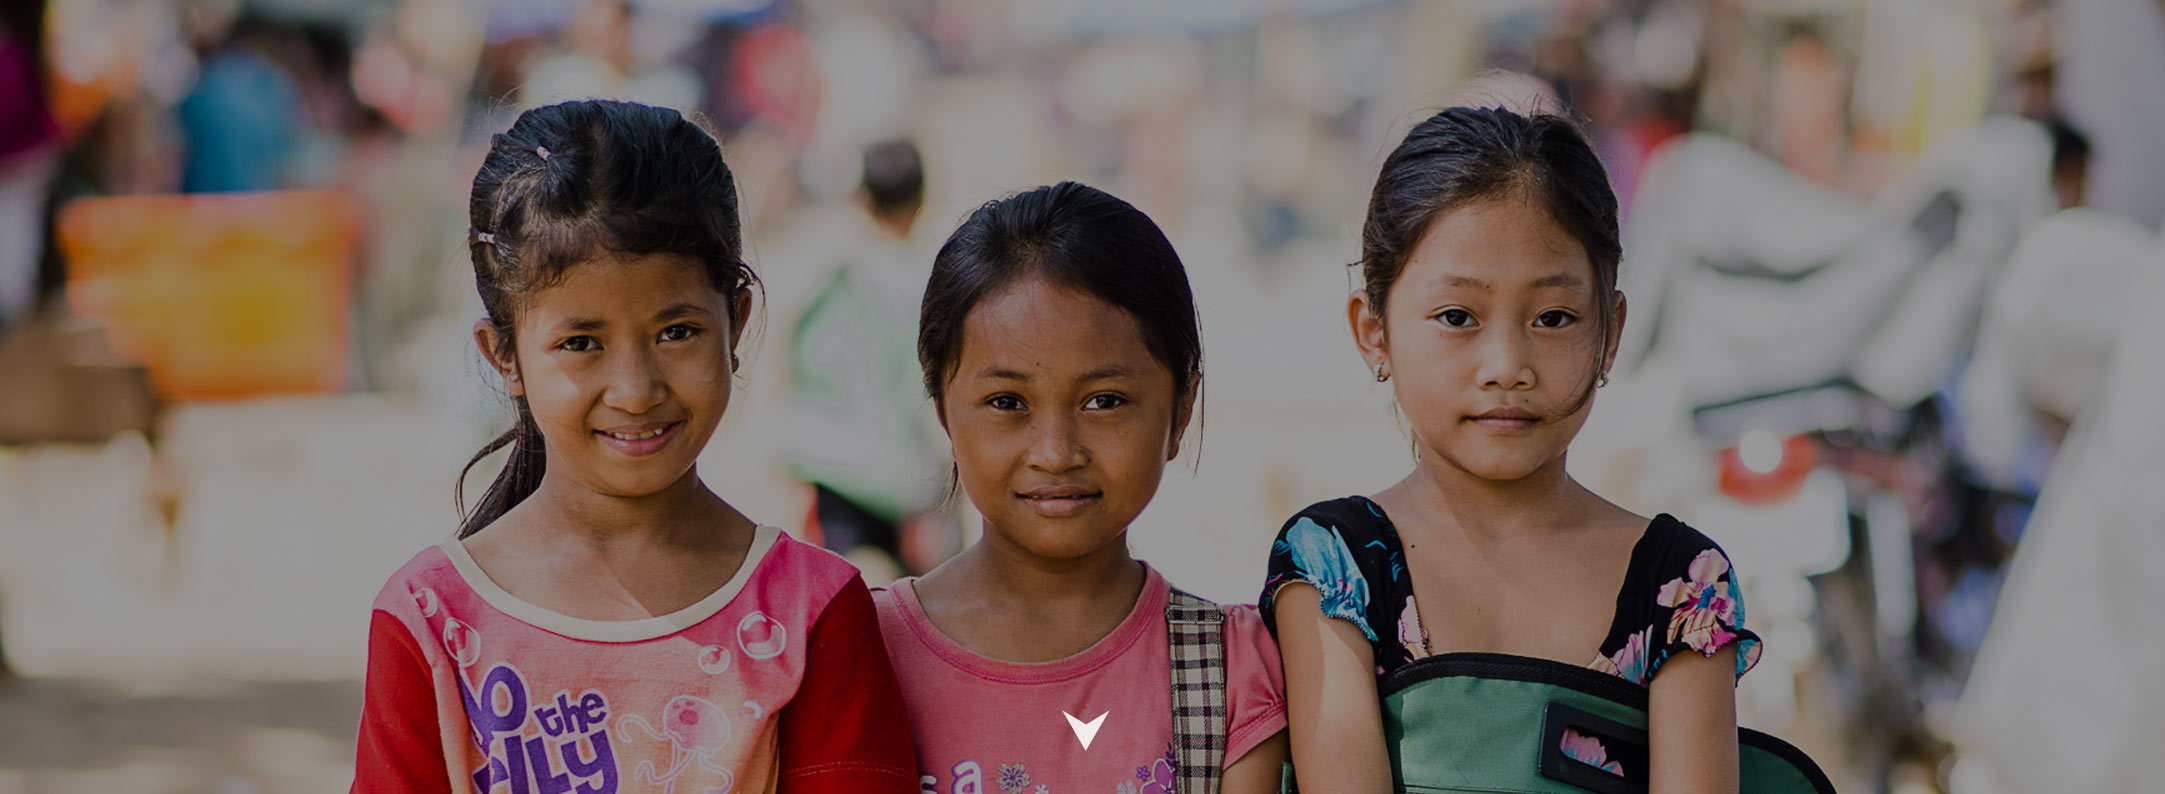
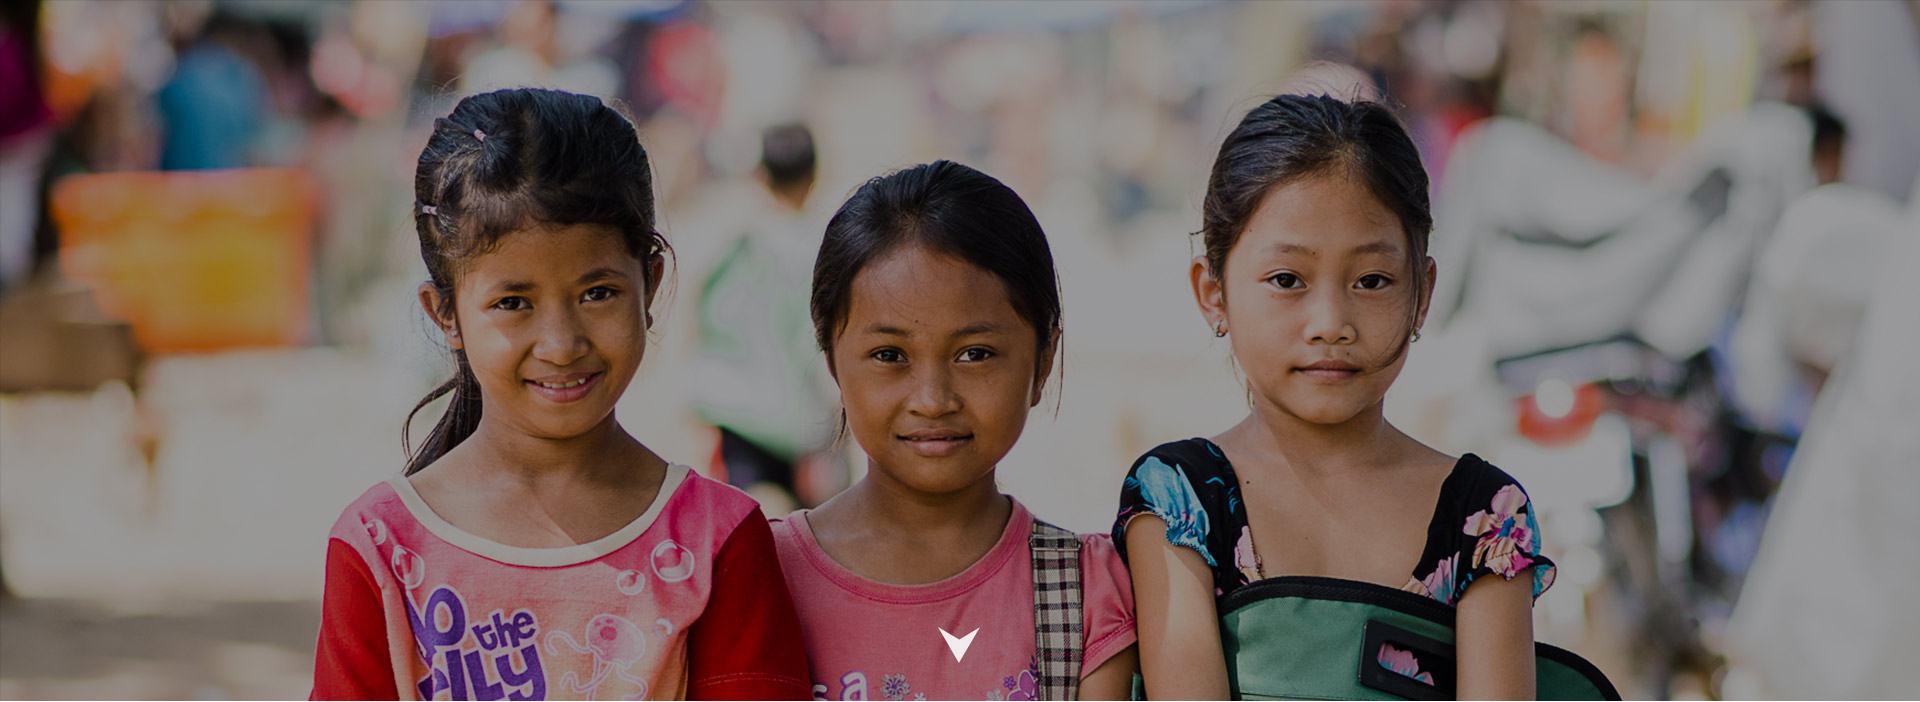
amend css for home page

diff --git a/ffacstorefront/web/webroot/_ui/desktop/ffac/css/style.css b/ffacstorefront/web/webroot/_ui/desktop/ffac/css/style.css
@@ -15,8 +15,10 @@ body, div, span, object, iframe, h1, h2, h3, h4, h5, h6, p, blockquote, pre, a, 
 }
 body p { line-height:40px; margin-bottom:25px }
 /* CSS header */
-header { margin-bottom:30px }
+header { margin-bottom:30px; background:url(../images/banner.jpg) no-repeat center top; height:703px }
 .header_top { position:absolute; top:0; left:0; z-index:9999; width:100% }
+
+
 
 .logo { padding-top:60px }
 .main { max-width:1170px; margin:auto; position:relative }
@@ -28,7 +30,7 @@ header { margin-bottom:30px }
 /* banner */
 .banner { width:100%; overflow:hidden }
 .banner img { width:100% }
-.infor-banner { position:absolute; top:190px; width:100%; text-align:center; color:#fff }
+.infor-banner { position:absolute; top:275px; width:100%; text-align:center; color:#fff }
 .infor-banner h1 { font-size:50px; font-weight:800; text-transform:uppercase; font-family: 'Raleway', sans-serif; margin-bottom:35px; margin-top:0; line-height:50px }
 .infor-banner h2 { font-size:35px; font-weight:600; text-transform:uppercase; font-family: 'Raleway', sans-serif; margin-bottom:5px }
 .infor-banner a { font-family: 'Cabin', sans-serif; font-weight:700; font-size:28px; text-transform:uppercase; color:#fff; margin-bottom:15px }
@@ -129,9 +131,6 @@ padding-top:30px
 }
 .shop-menu {
 top:30px
-}
-.infor-banner {
-top:150px
 }
 .we-infor p {
 width:60%
